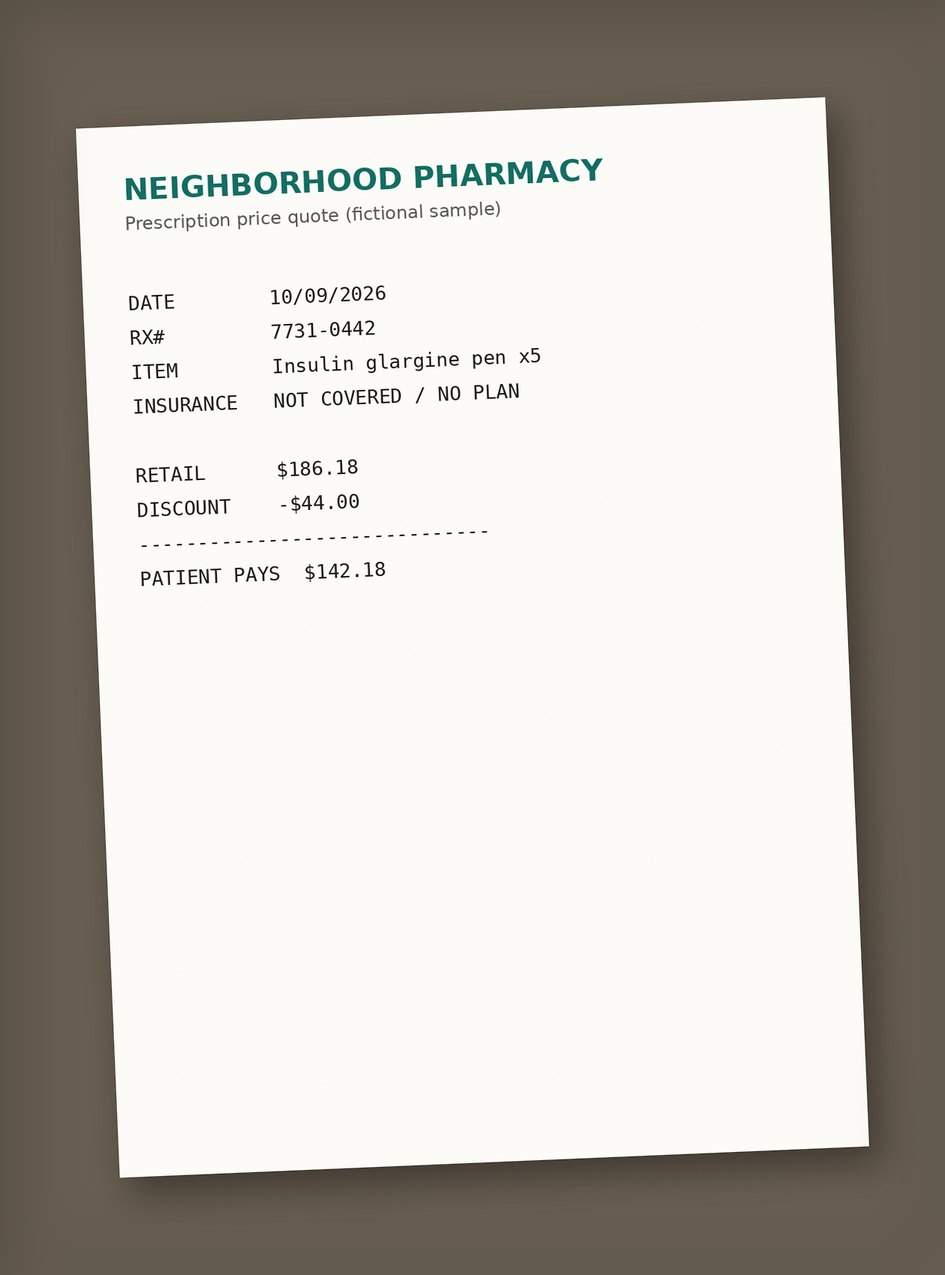
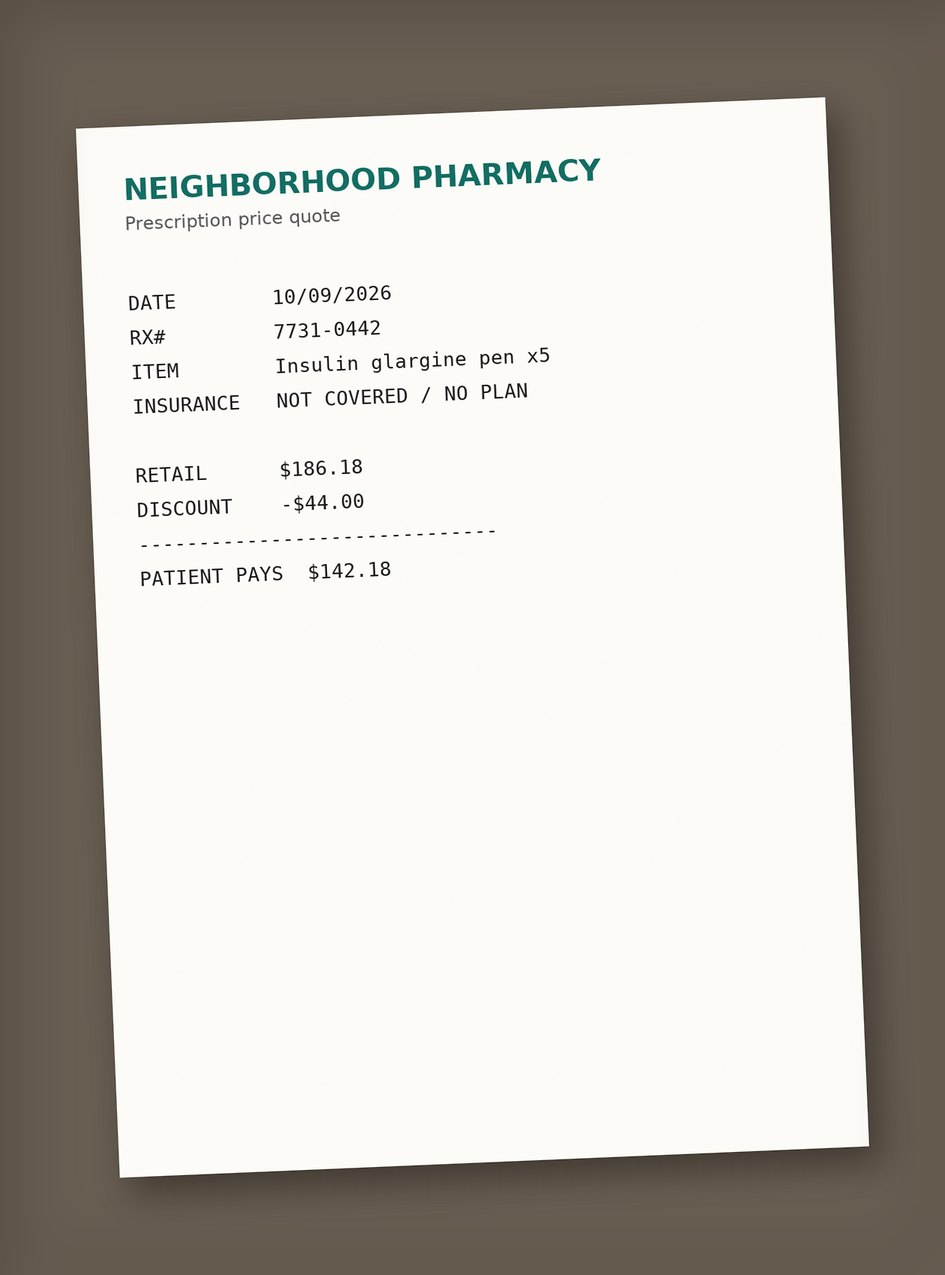
Demo documents: remove the in-image "fictional sample" text
Live Claude (correctly) flagged the estimate as a sample document and
asked the applicant for a real one, which broke the judges' main demo
path. The README still states the documents are fictional. The generator
now also reads DEMO_FONT_DIR so it runs off Linux.

diff --git a/scripts/make_demo_docs.py b/scripts/make_demo_docs.py
@@ -1,9 +1,12 @@
 """Generates realistic-looking (fictional) supporting documents for demos and seed data.
 
-Every business name here is invented. Output: demo-assets/*.jpg
+Every business name here is invented, and the README says so. The images carry no "sample" or
+"fictional" text on purpose: the AI document reader flags it (correctly) as a red flag.
+Output: demo-assets/*.jpg
 Run: python3 scripts/make_demo_docs.py
 """
 import math
+import os
 import random
 from pathlib import Path
 
@@ -12,7 +15,7 @@ from PIL import Image, ImageDraw, ImageFilter, ImageFont
 OUT = Path(__file__).resolve().parent.parent / "demo-assets"
 OUT.mkdir(exist_ok=True)
 
-FONT_DIRS = ["/usr/share/fonts/truetype/dejavu", "/usr/share/fonts/truetype/freefont"]
+FONT_DIRS = [os.environ.get("DEMO_FONT_DIR", ""), "/usr/share/fonts/truetype/dejavu", "/usr/share/fonts/truetype/freefont"]
 
 
 def font(name, size):
@@ -81,7 +84,7 @@ def auto_estimate():
     img, d = paper()
     d.rectangle([0, 0, 1240, 170], fill=(26, 54, 93))
     d.text((70, 40), "EASTSIDE AUTO CARE", font=font(SANS_B, 58), fill="white")
-    d.text((72, 110), "Family-owned since 2004  ·  1810 E 7th St (fictional)  ·  (512) 555-0147", font=font(SANS, 24), fill=(210, 220, 235))
+    d.text((72, 110), "Family-owned since 2004  ·  1810 E 7th St  ·  (512) 555-0147", font=font(SANS, 24), fill=(210, 220, 235))
     d.text((70, 220), "REPAIR ESTIMATE", font=font(SANS_B, 44), fill=(26, 54, 93))
     d.text((860, 230), "Estimate #E-20417", font=font(SANS, 28), fill=(60, 60, 60))
     f = font(SANS, 28)
@@ -107,7 +110,6 @@ def auto_estimate():
     d.text((70, y + 180), "Payment accepted: cash, card, PayPal.", font=font(SANS, 24), fill=(80, 80, 80))
     # handwritten-ish note
     d.text((640, y + 300), "Thanks Maria - call when ready", font=font("FreeSansOblique.ttf", 34), fill=(30, 60, 150))
-    d.text((70, 1500), "This estimate is a fictional sample created for software demos.", font=font(SANS, 18), fill=(150, 150, 150))
     photo(img, "eastside-auto-estimate-380.jpg", -2.2)
 
 
@@ -137,14 +139,13 @@ def shutoff_notice():
     d.text((960, y + 36), "$286.40", font=font(SANS_B, 40), fill=(170, 30, 30))
     d.text((70, y + 120), "Pay by 10/13/2026 to avoid disconnection.", font=font(SANS_B, 30), fill=(20, 20, 20))
     d.text((70, y + 170), "Service may be disconnected on or after 10/14/2026.", font=f, fill=(30, 30, 30))
-    d.text((70, 1500), "Fictional sample document created for software demos.", font=font(SANS, 18), fill=(150, 150, 150))
     photo(img, "capital-power-shutoff-286.jpg", 1.6)
 
 
 def rent_notice():
     img, d = paper()
     d.text((70, 70), "Riverbend Commons Apartments", font=font(SERIF_B, 44), fill=(40, 70, 50))
-    d.text((70, 130), "Leasing Office  ·  (512) 555-0123  (fictional)", font=font(SANS, 22), fill=(90, 90, 90))
+    d.text((70, 130), "Leasing Office  ·  (512) 555-0123", font=font(SANS, 22), fill=(90, 90, 90))
     d.text((70, 230), "NOTICE OF PAST DUE RENT", font=font(SANS_B, 42), fill=(20, 20, 20))
     f = font(SANS, 28)
     body = [
@@ -167,14 +168,13 @@ def rent_notice():
     ]
     for i, t in enumerate(msg):
         d.text((70, y + 130 + i * 44), t, font=f, fill=(30, 30, 30))
-    d.text((70, 1500), "Fictional sample document created for software demos.", font=font(SANS, 18), fill=(150, 150, 150))
     photo(img, "riverbend-rent-notice-750.jpg", -1.1)
 
 
 def pharmacy_quote():
     img, d = paper(1000, 1400)
     d.text((60, 60), "NEIGHBORHOOD PHARMACY", font=font(SANS_B, 40), fill=(20, 110, 100))
-    d.text((60, 115), "Prescription price quote (fictional sample)", font=font(SANS, 24), fill=(90, 90, 90))
+    d.text((60, 115), "Prescription price quote", font=font(SANS, 24), fill=(90, 90, 90))
     f = font(MONO, 26)
     lines = [
         "DATE        10/09/2026",
